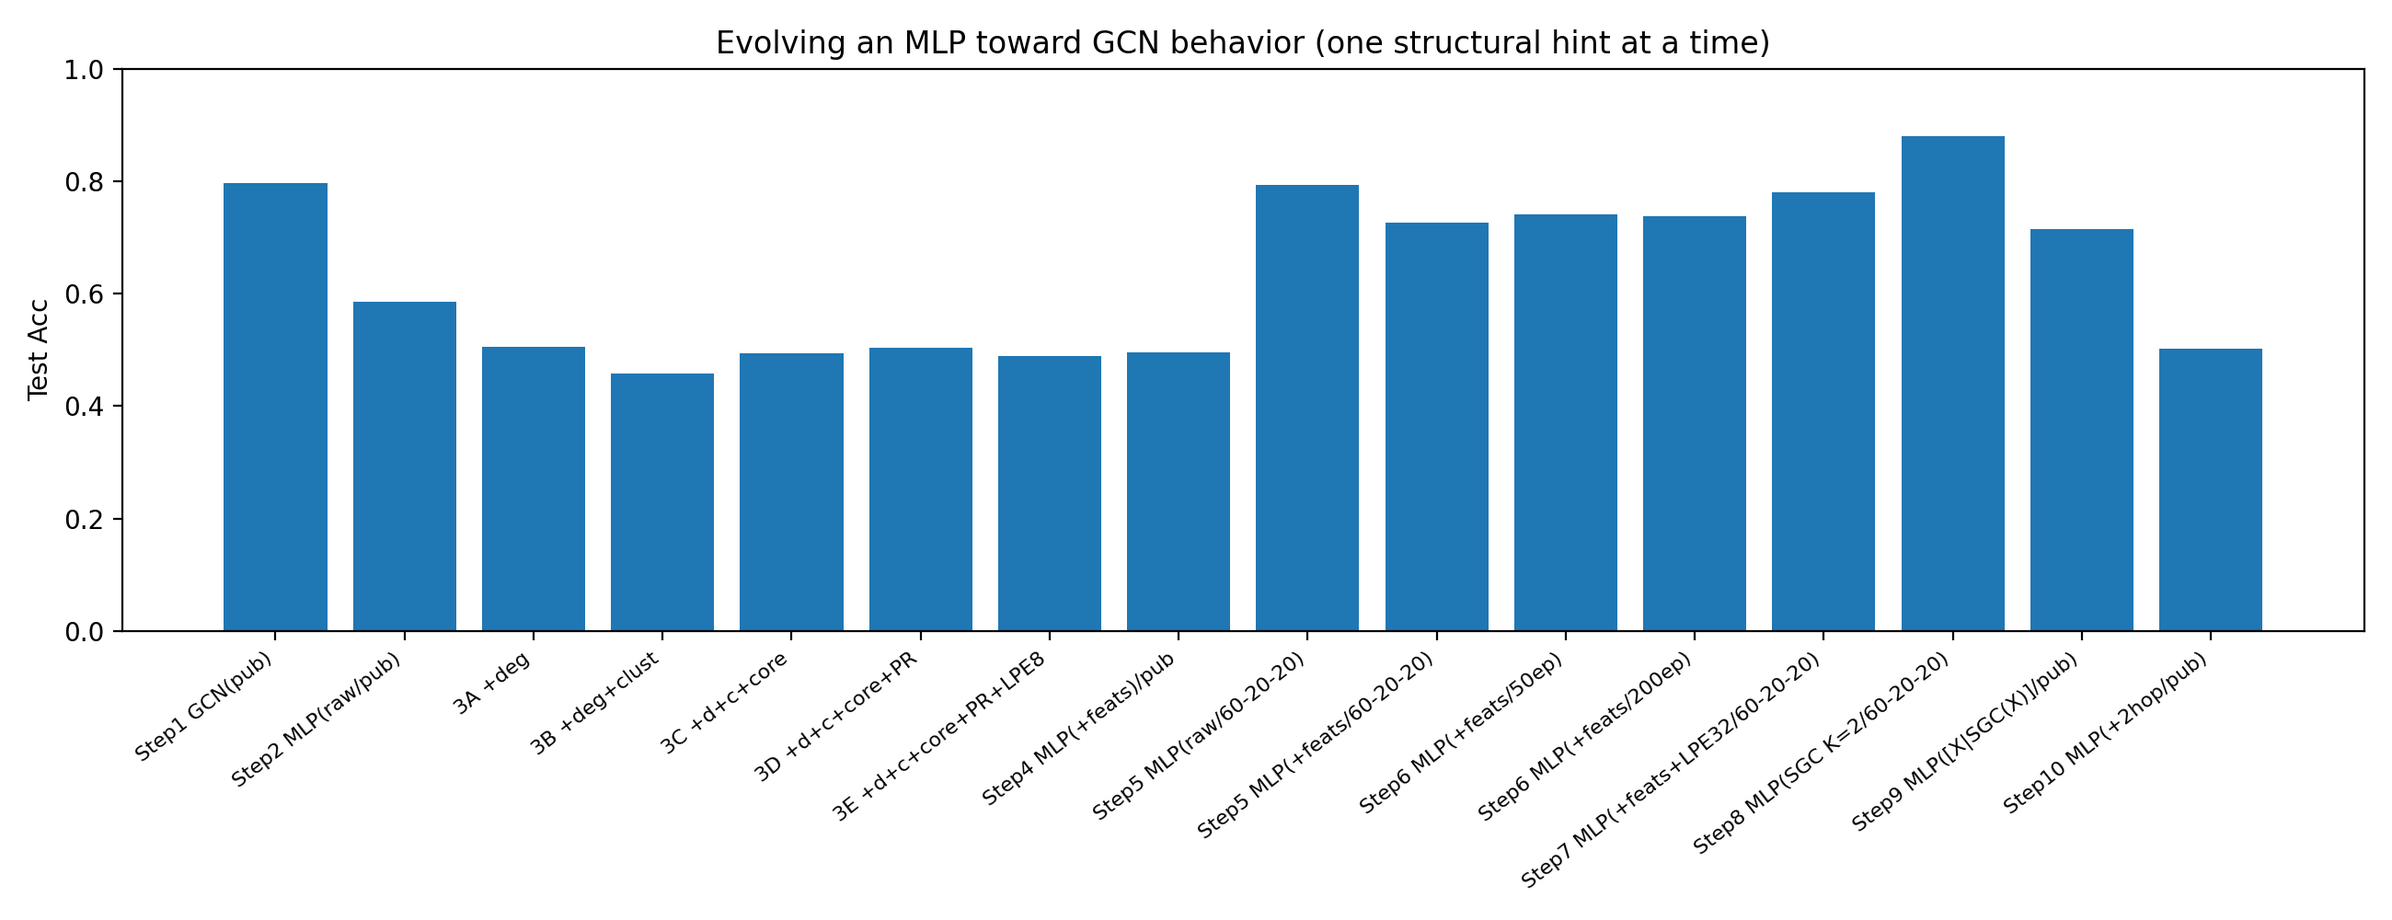
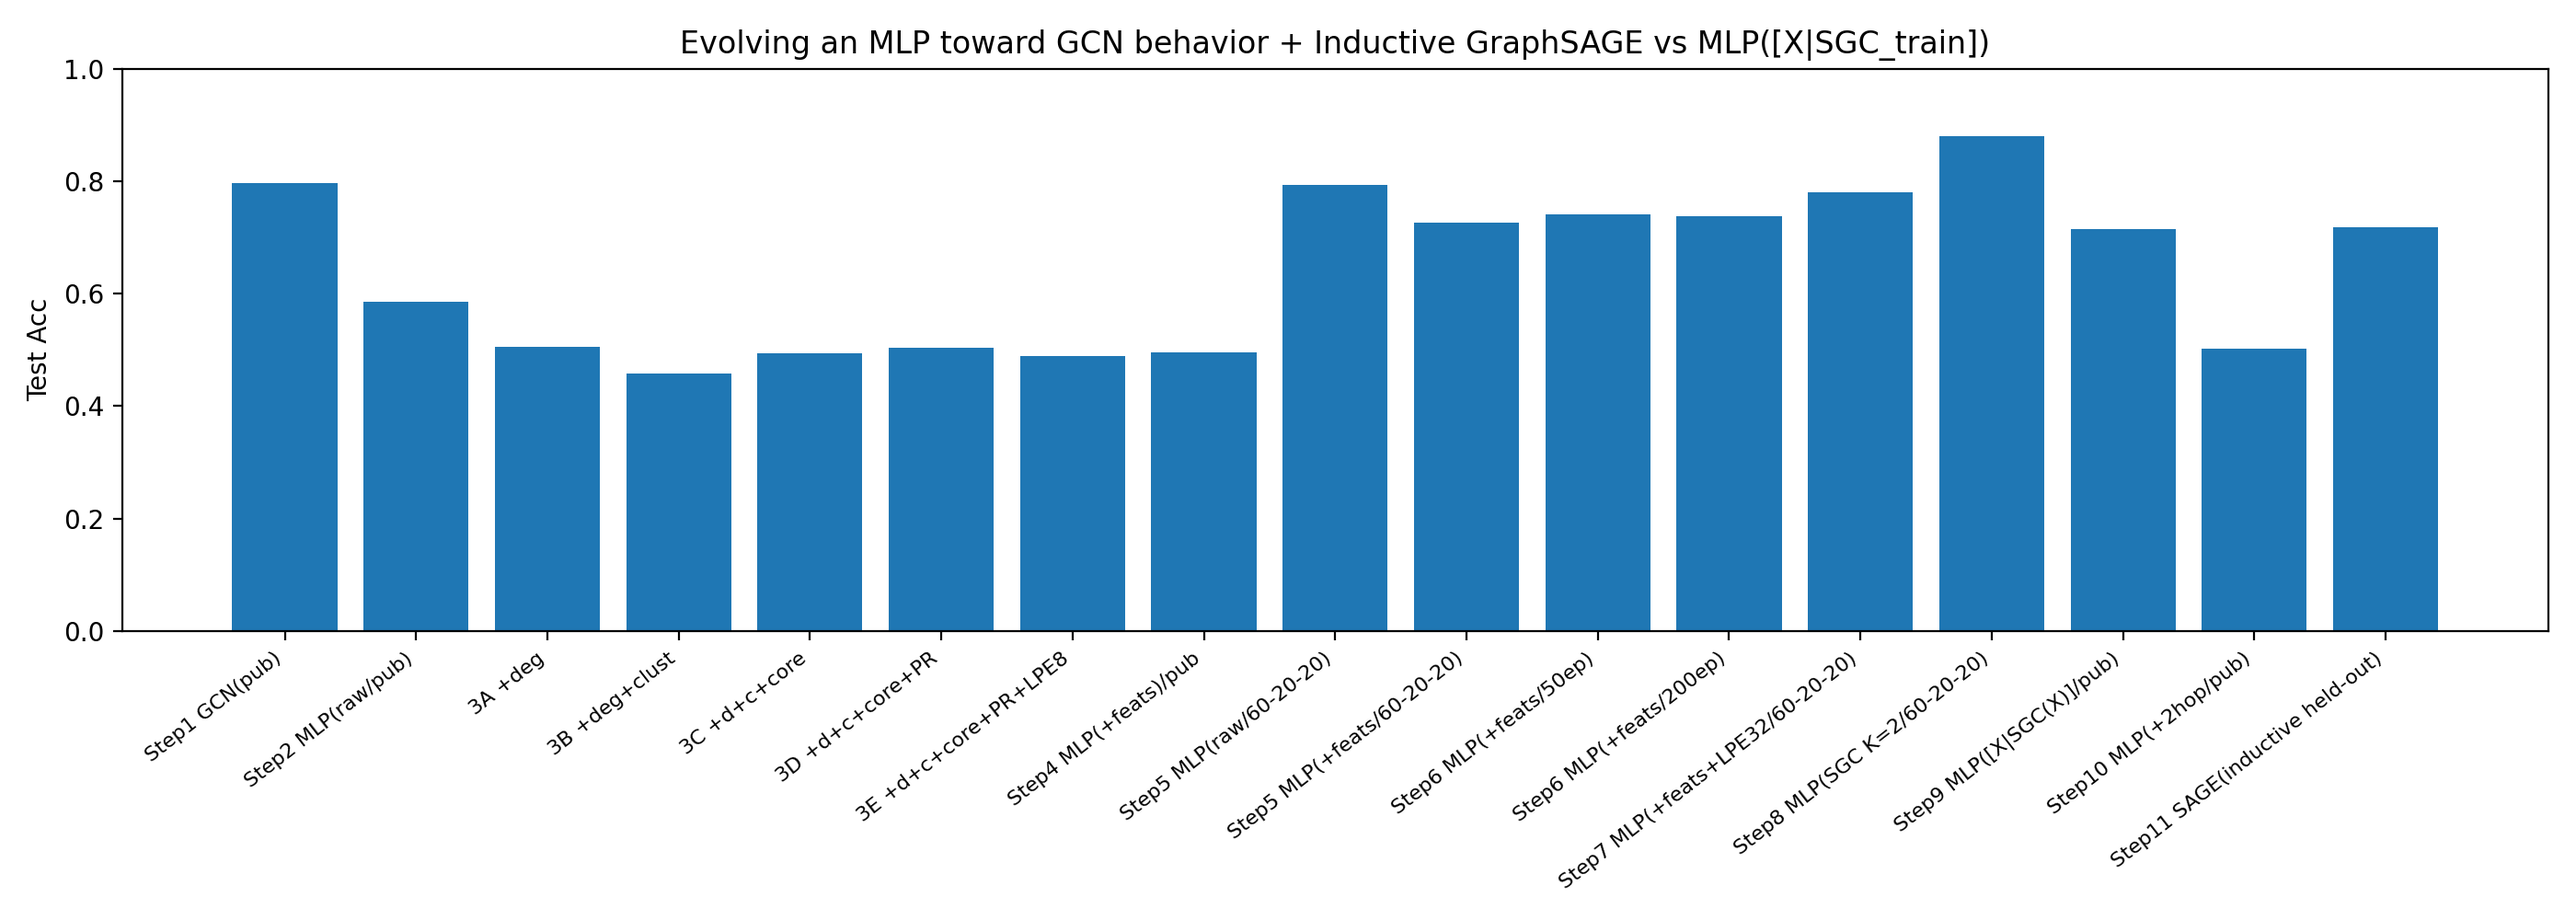
This update introduces Step 11: GraphSAGE inductive vs MLP([X | SGC(X)]) comparison and expands the educational narrative across the Cora demo script.
Key updates:
- Added GraphSAGE (SAGEConv) model class and inductive training setup
- Created BFS-based train-subgraph for true inductive generalization
- Added baseline MLP([X | SGC_train(X)]) using train-only edges
- Printed clear stepwise narration, insights, and story lines
- Added test-time ablation showing SAGE dependence on neighbor access
- Refined narration for Steps 5–9 (label rate, epochs, LPE, SGC, etc.)
- Enhanced console storytelling for 2-hour GNN lecture flow

README.md updated for readability and teaching:
- Clarified motivation for each experiment
- Improved formatting and learning goals
- Added context for LPE, SGC, and inductive comparison
- Smoothed transitions for classroom or tutorial use

diff --git a/cora_demo_stepwise_v3.py b/cora_demo_stepwise_v3.py
@@ -10,8 +10,8 @@ import torch.nn.functional as F
 import numpy as np
 
 from torch_geometric.datasets import Planetoid
-from torch_geometric.nn import GCNConv
-from torch_geometric.utils import to_networkx, add_self_loops, degree
+from torch_geometric.nn import GCNConv, SAGEConv
+from torch_geometric.utils import to_networkx, add_self_loops, degree, subgraph as tg_subgraph
 
 import networkx as nx
 
@@ -87,6 +87,26 @@ def train(model, data, use_edges=True, lr=0.01, weight_decay=5e-4, epochs=200):
         loss = F.cross_entropy(out[data.train_mask], data.y[data.train_mask])
         loss.backward(); opt.step()
 
+# New minimal helpers for inductive demo (kept very local)
+@torch.no_grad()
+def eval_accs_on_edgeindex(model, data, edge_index):
+    """Evaluate a message-passing model on a custom edge_index (e.g., full graph at test time)."""
+    model.eval()
+    out = model(data.x, edge_index)
+    pred = out.argmax(dim=1)
+    def acc(mask): return (pred[mask] == data.y[mask]).float().mean().item()
+    return acc, pred, out
+
+def train_only_edge_index(model, data, edge_index, lr=0.01, weight_decay=5e-4, epochs=200):
+    """Train a message-passing model using a custom edge_index (e.g., subgraph for inductive)."""
+    opt = torch.optim.Adam(model.parameters(), lr=lr, weight_decay=weight_decay)
+    for _ in range(epochs):
+        model.train(); opt.zero_grad()
+        out = model(data.x, edge_index)
+        loss = F.cross_entropy(out[data.train_mask], data.y[data.train_mask])
+        loss.backward(); opt.step()
+
+
 def make_random_split(data, train_frac=0.6, val_frac=0.2, test_frac=0.2):
     N = data.num_nodes
     perm = torch.randperm(N, device=data.x.device)
@@ -96,6 +116,19 @@ def make_random_split(data, train_frac=0.6, val_frac=0.2, test_frac=0.2):
     data.val_mask   = torch.zeros(N, dtype=torch.bool, device=data.x.device); data.val_mask[val_idx] = True
     data.test_mask  = torch.zeros(N, dtype=torch.bool, device=data.x.device); data.test_mask[test_idx] = True
     return data
+
+# Helper: split ONLY inside an allowed subset (used by Step 11)
+def make_split_from_allowed_mask(mask_allowed, train_frac=0.6, val_frac=0.2, test_frac=0.2, device='cpu'):
+    idx = torch.nonzero(mask_allowed, as_tuple=False).view(-1)
+    N = idx.numel()
+    perm = idx[torch.randperm(N, device=idx.device)]
+    n_train = int(train_frac * N); n_val = int(val_frac * N)
+    train_idx = perm[:n_train]; val_idx = perm[n_train:n_train+n_val]; test_idx = perm[n_train+n_val:]
+    train_mask = torch.zeros(mask_allowed.size(0), dtype=torch.bool, device=device); train_mask[train_idx] = True
+    val_mask   = torch.zeros_like(train_mask); val_mask[val_idx] = True
+    test_mask  = torch.zeros_like(train_mask); test_mask[test_idx] = True
+    return train_mask, val_mask, test_mask
+
 
 def zscore_columns(X, eps=1e-6):
     m = X.mean(dim=0, keepdim=True)
@@ -172,6 +205,19 @@ class MLP(nn.Module):
         return self.lin2(h)
     def hidden(self, x):
         return F.relu(self.lin1(x))
+
+# New: very small GraphSAGE for inductive demo
+class SAGE(nn.Module):
+    def __init__(self, in_dim, hid=64, out_dim=None, dropout=0.5):
+        super().__init__()
+        self.conv1 = SAGEConv(in_dim, hid)  # mean aggregator
+        self.conv2 = SAGEConv(hid, out_dim)
+        self.dropout = dropout
+    def forward(self, x, edge_index):
+        h = F.relu(self.conv1(x, edge_index))
+        h = F.dropout(h, p=self.dropout, training=self.training)
+        out = self.conv2(h, edge_index)
+        return out
 
 # ----------------------------
 # Load data & show samples
@@ -274,6 +320,7 @@ print_embedding_samples(mlp_H, data.y, k=3, cols=8, prefix="MLP(hidden) on raw f
 # ----------------------------
 # Triplet cosine-sim demo (GCN vs MLP)
 # ----------------------------
+
 def _unique_undirected_edges(edge_index):
     row, col = edge_index
     s = set()
@@ -508,6 +555,8 @@ mlp_aug2 = MLP(in_dim=data_aug_602020.x.size(1), out_dim=dataset.num_classes, dr
 train(mlp_aug2, data_aug_602020, use_edges=False, epochs=200, weight_decay=5e-3)
 a2_train, a2_val, a2_test, _, _ = eval_accs(mlp_aug2, data_aug_602020, use_edges=False)
 print(f"MLP(+feats{lpe_note_consol}) on 60/20/20 -> train {a2_train:.3f} | val {a2_val:.3f} | test {a2_test:.3f}")
+print("Narration: With more labels, even edge-blind MLPs catch up; supervision substitutes for relational bias.")
+print("Insight: Handcrafted graph stats without smoothing still lag; the raw MLP narrows the gap as label rate grows.")
 
 # ----------------------------
 # Step 6: Epoch sensitivity (kept)
@@ -522,6 +571,8 @@ mlp_aug_200 = MLP(in_dim=data_aug_602020.x.size(1), out_dim=dataset.num_classes,
 train(mlp_aug_200, data_aug_602020, use_edges=False, epochs=200, weight_decay=5e-3)
 b200_tr, b200_val, b200_te, _, _ = eval_accs(mlp_aug_200, data_aug_602020, use_edges=False)
 print(f"MLP(+feats) 200 epochs -> train {b200_tr:.3f} | val {b200_val:.3f} | test {b200_te:.3f}")
+print("Narration: Training longer doesn’t change the inductive bias—only how hard we fit it.")
+print("Insight: Early stopping finds a sweet spot; beyond ~100–200 epochs we invite tiny gains and potential overfit.")
 
 # ----------------------------
 # Step 7: Stronger LPE → 32D (kept)
@@ -543,6 +594,8 @@ try:
     s_tr, s_val, s_te, _, _ = eval_accs(mlp_aug_strong, data_aug2, use_edges=False)
     lpe_note2 = " + 32D LPE"
     print(f"MLP(+feats{lpe_note2}) on 60/20/20 -> train {s_tr:.3f} | val {s_val:.3f} | test {s_te:.3f}")
+    print("Narration: Richer LPE gives smoother coordinates—great when classes form broad regions on the graph.")
+    print("Insight: Useful on homophilous graphs; compute cost ↑, diminishing returns after ~32 comps on Cora.")
 except Exception as e:
     print("Stronger LPE step skipped:", e)
 
@@ -574,6 +627,7 @@ train(mlp_sgc, data_sgc, use_edges=False, epochs=200, weight_decay=5e-3)
 sgc_tr, sgc_val, sgc_te, _, _ = eval_accs(mlp_sgc, data_sgc, use_edges=False)
 print(f"MLP on SGC-preprop (K=2) -> train {sgc_tr:.3f} | val {sgc_val:.3f} | test {sgc_te:.3f}")
 print("Insight: Diffuse features first, then classify—this injects the smoothness prior explicitly.")
+print("Narration: SGC is one-shot message passing—robust to training-time edge noise, but can’t adapt to new edges at test.")
 
 # ----------------------------
 # Step 9: Variant — concatenate X with SGC(X) on public split
@@ -590,6 +644,7 @@ csgc_tr, csgc_val, csgc_te, csgc_pred, _ = eval_accs(mlp_concat_sgc, data_concat
 print(f"MLP on [X | SGC(X)] (pub split) -> train {csgc_tr:.3f} | val {csgc_val:.3f} | test {csgc_te:.3f}")
 print("Neighbor agreement:", neighbor_agreement(csgc_pred, data.edge_index))
 print("Narration: Closest mimic to a GCN while staying edge-free at training time.")
+print("Insight: Concatenation preserves sharp word signals while adding smoothed context—helpful when classes need both.")
 
 # ----------------------------
 # Step 10: Optional — +2-hop ego count (public split)
@@ -621,6 +676,72 @@ except Exception as e:
     print("2-hop ego step skipped:", e)
 
 # ----------------------------
+# Step 11: GraphSAGE inductive demo (NEW)
+# ----------------------------
+section("Step 11: GraphSAGE inductive vs MLP([X | SGC(X)]) on held-out nodes")
+# 1) Build a connected training subgraph (≈60% of nodes) via BFS on the giant component
+all_nodes = np.array(list(giant.nodes()))
+start = int(all_nodes[np.argmax([giant.degree(n) for n in all_nodes])])
+# BFS order until target count
+target = int(0.60 * N)
+order = list(nx.bfs_tree(giant, start))
+sub_nodes = torch.tensor(order[:target], dtype=torch.long, device=device)
+sub_mask = torch.zeros(N, dtype=torch.bool, device=device)
+sub_mask[sub_nodes] = True
+heldout_mask = ~sub_mask
+print(f"Inductive split: train-subgraph nodes = {int(sub_mask.sum())}, held-out nodes = {int(heldout_mask.sum())}")
+
+# 2) Create train/val/test *inside* the subgraph; treat ALL held-out nodes as the inductive test set
+train_mask_ind, val_mask_ind, test_mask_ind_inner = make_split_from_allowed_mask(sub_mask, 0.7, 0.15, 0.15, device=device)
+inductive_test_mask = heldout_mask.clone()  # true inductive generalization
+
+# Attach masks to a clone
+ind_data = data.clone()
+ind_data.train_mask = train_mask_ind
+ind_data.val_mask   = val_mask_ind
+ind_data.test_mask  = test_mask_ind_inner  # used only for in-subgraph reporting
+
+# 3) Extract the training subgraph edges for *training only*
+edge_index_sub, _ = tg_subgraph(sub_nodes, data.edge_index, relabel_nodes=False)
+print(f"Edges used for SAGE training: {edge_index_sub.size(1)} (only inside the 60% subgraph)")
+
+# 4) Train GraphSAGE on the subgraph only
+sage = SAGE(in_dim=dataset.num_node_features, hid=64, out_dim=dataset.num_classes, dropout=0.5).to(device)
+train_only_edge_index(sage, ind_data, edge_index_sub, lr=0.01, weight_decay=5e-4, epochs=200)
+# Evaluate SAGE: (a) within-subgraph (transductive-style), (b) true inductive on held-out nodes
+acc_fn_full, sage_pred_full, _ = eval_accs_on_edgeindex(sage, data, data.edge_index)  # full graph edges for inference
+sage_in_sub = acc_fn_full(ind_data.test_mask)
+sage_inductive = acc_fn_full(inductive_test_mask)
+print(f"SAGE -> in-subgraph test {sage_in_sub:.3f} | held-out (inductive) {sage_inductive:.3f}")
+print("Narration: SAGE never saw the held-out nodes during training; at inference it aggregates from their neighbors using the learned aggregator.")
+print("Insight: If held-out accuracy stays close to in-subgraph, SAGE learned general neighbor-combine rules.")
+
+with torch.no_grad():
+    print("Neighbor agreement (SAGE, full graph):", neighbor_agreement(sage_pred_full, data.edge_index))
+
+# 5) Inductive baseline: MLP on [X | SGC(X_train-subgraph)]
+#    Compute SGC using ONLY the training subgraph edges (self-loops keep features for held-out nodes)
+X_sgc_ind = prepropagate_features(data.x.clone(), edge_index_sub, K=2)
+X_sgc_ind = zscore_columns(X_sgc_ind)
+mlp_ind = MLP(in_dim=(data.x.size(1) + X_sgc_ind.size(1)), out_dim=dataset.num_classes, dropout=0.6).to(device)
+ind_concat = data.clone(); ind_concat.x = zscore_columns(torch.cat([data.x, X_sgc_ind], dim=1))
+ind_concat.train_mask = train_mask_ind; ind_concat.val_mask = val_mask_ind; ind_concat.test_mask = test_mask_ind_inner
+train(mlp_ind, ind_concat, use_edges=False, epochs=200, weight_decay=5e-3)
+# Evaluate MLP on held-out nodes (no edges ever used at train or test)
+_, _, _, mlp_ind_pred, _ = eval_accs(mlp_ind, ind_concat, use_edges=False)
+mlp_ind_in_sub = (mlp_ind_pred[ind_data.test_mask] == data.y[ind_data.test_mask]).float().mean().item()
+mlp_ind_inductive = (mlp_ind_pred[inductive_test_mask] == data.y[inductive_test_mask]).float().mean().item()
+print(f"MLP([X|SGC_train]) -> in-subgraph test {mlp_ind_in_sub:.3f} | held-out (inductive) {mlp_ind_inductive:.3f}")
+print("Narration: The MLP never uses edges at training *or* test; SGC(X) was precomputed using only the train-subgraph structure.")
+print("Takeaway: A gap SAGE≻MLP([X|SGC_train]) on held-out nodes demonstrates *true inductiveness* of neighbor aggregation, not just feature smoothing.")
+# Extra probe: show SAGE needs test-time neighbors
+acc_fn_trainonly, _, _ = eval_accs_on_edgeindex(sage, data, edge_index_sub)
+sage_inductive_trainonly = acc_fn_trainonly(inductive_test_mask)
+print(f"SAGE (inference uses *train-only* edges) held-out: {sage_inductive_trainonly:.3f}  ",
+      "← shows dependence on test-time neighbors.")
+print(f"Story: SAGE transfers a learned neighbor-aggregation rule to unseen nodes. Delta on held-out: +{(sage_inductive - mlp_ind_inductive):.3f} vs MLP+SGC_train.")
+
+# ----------------------------
 # Summary bar chart (optional)
 # ----------------------------
 if HAS_MPL:
@@ -635,7 +756,8 @@ if HAS_MPL:
             "Step7 MLP(+feats+LPE32/60-20-20)",
             "Step8 MLP(SGC K=2/60-20-20)",
             "Step9 MLP([X|SGC(X)]/pub)",
-            "Step10 MLP(+2hop/pub)"
+            "Step10 MLP(+2hop/pub)",
+            "Step11 SAGE(inductive held-out)"
         ]
         def _v(name):
             return globals()[name] if name in globals() else 0.0
@@ -650,12 +772,13 @@ if HAS_MPL:
             float(_v('sgc_te')),
             float(_v('csgc_te')),
             float(_v('th_te')) if 'th_te' in globals() else 0.0,
+            float(_v('sage_inductive')) if 'sage_inductive' in globals() else 0.0,
         ]
-        plt.figure(figsize=(13,5))
+        plt.figure(figsize=(14,5))
         plt.bar(range(len(labels)), vals)
         plt.xticks(range(len(labels)), labels, rotation=38, ha='right', fontsize=8)
         plt.ylabel("Test Acc")
-        plt.title("Evolving an MLP toward GCN behavior (one structural hint at a time)")
+        plt.title("Evolving an MLP toward GCN behavior + Inductive GraphSAGE vs MLP([X|SGC_train])")
         plt.ylim(0, 1.0); plt.tight_layout(); plt.savefig('accuracy_summary.png', dpi=200)
         print('Saved summary bar chart to accuracy_summary.png')
     except Exception:
